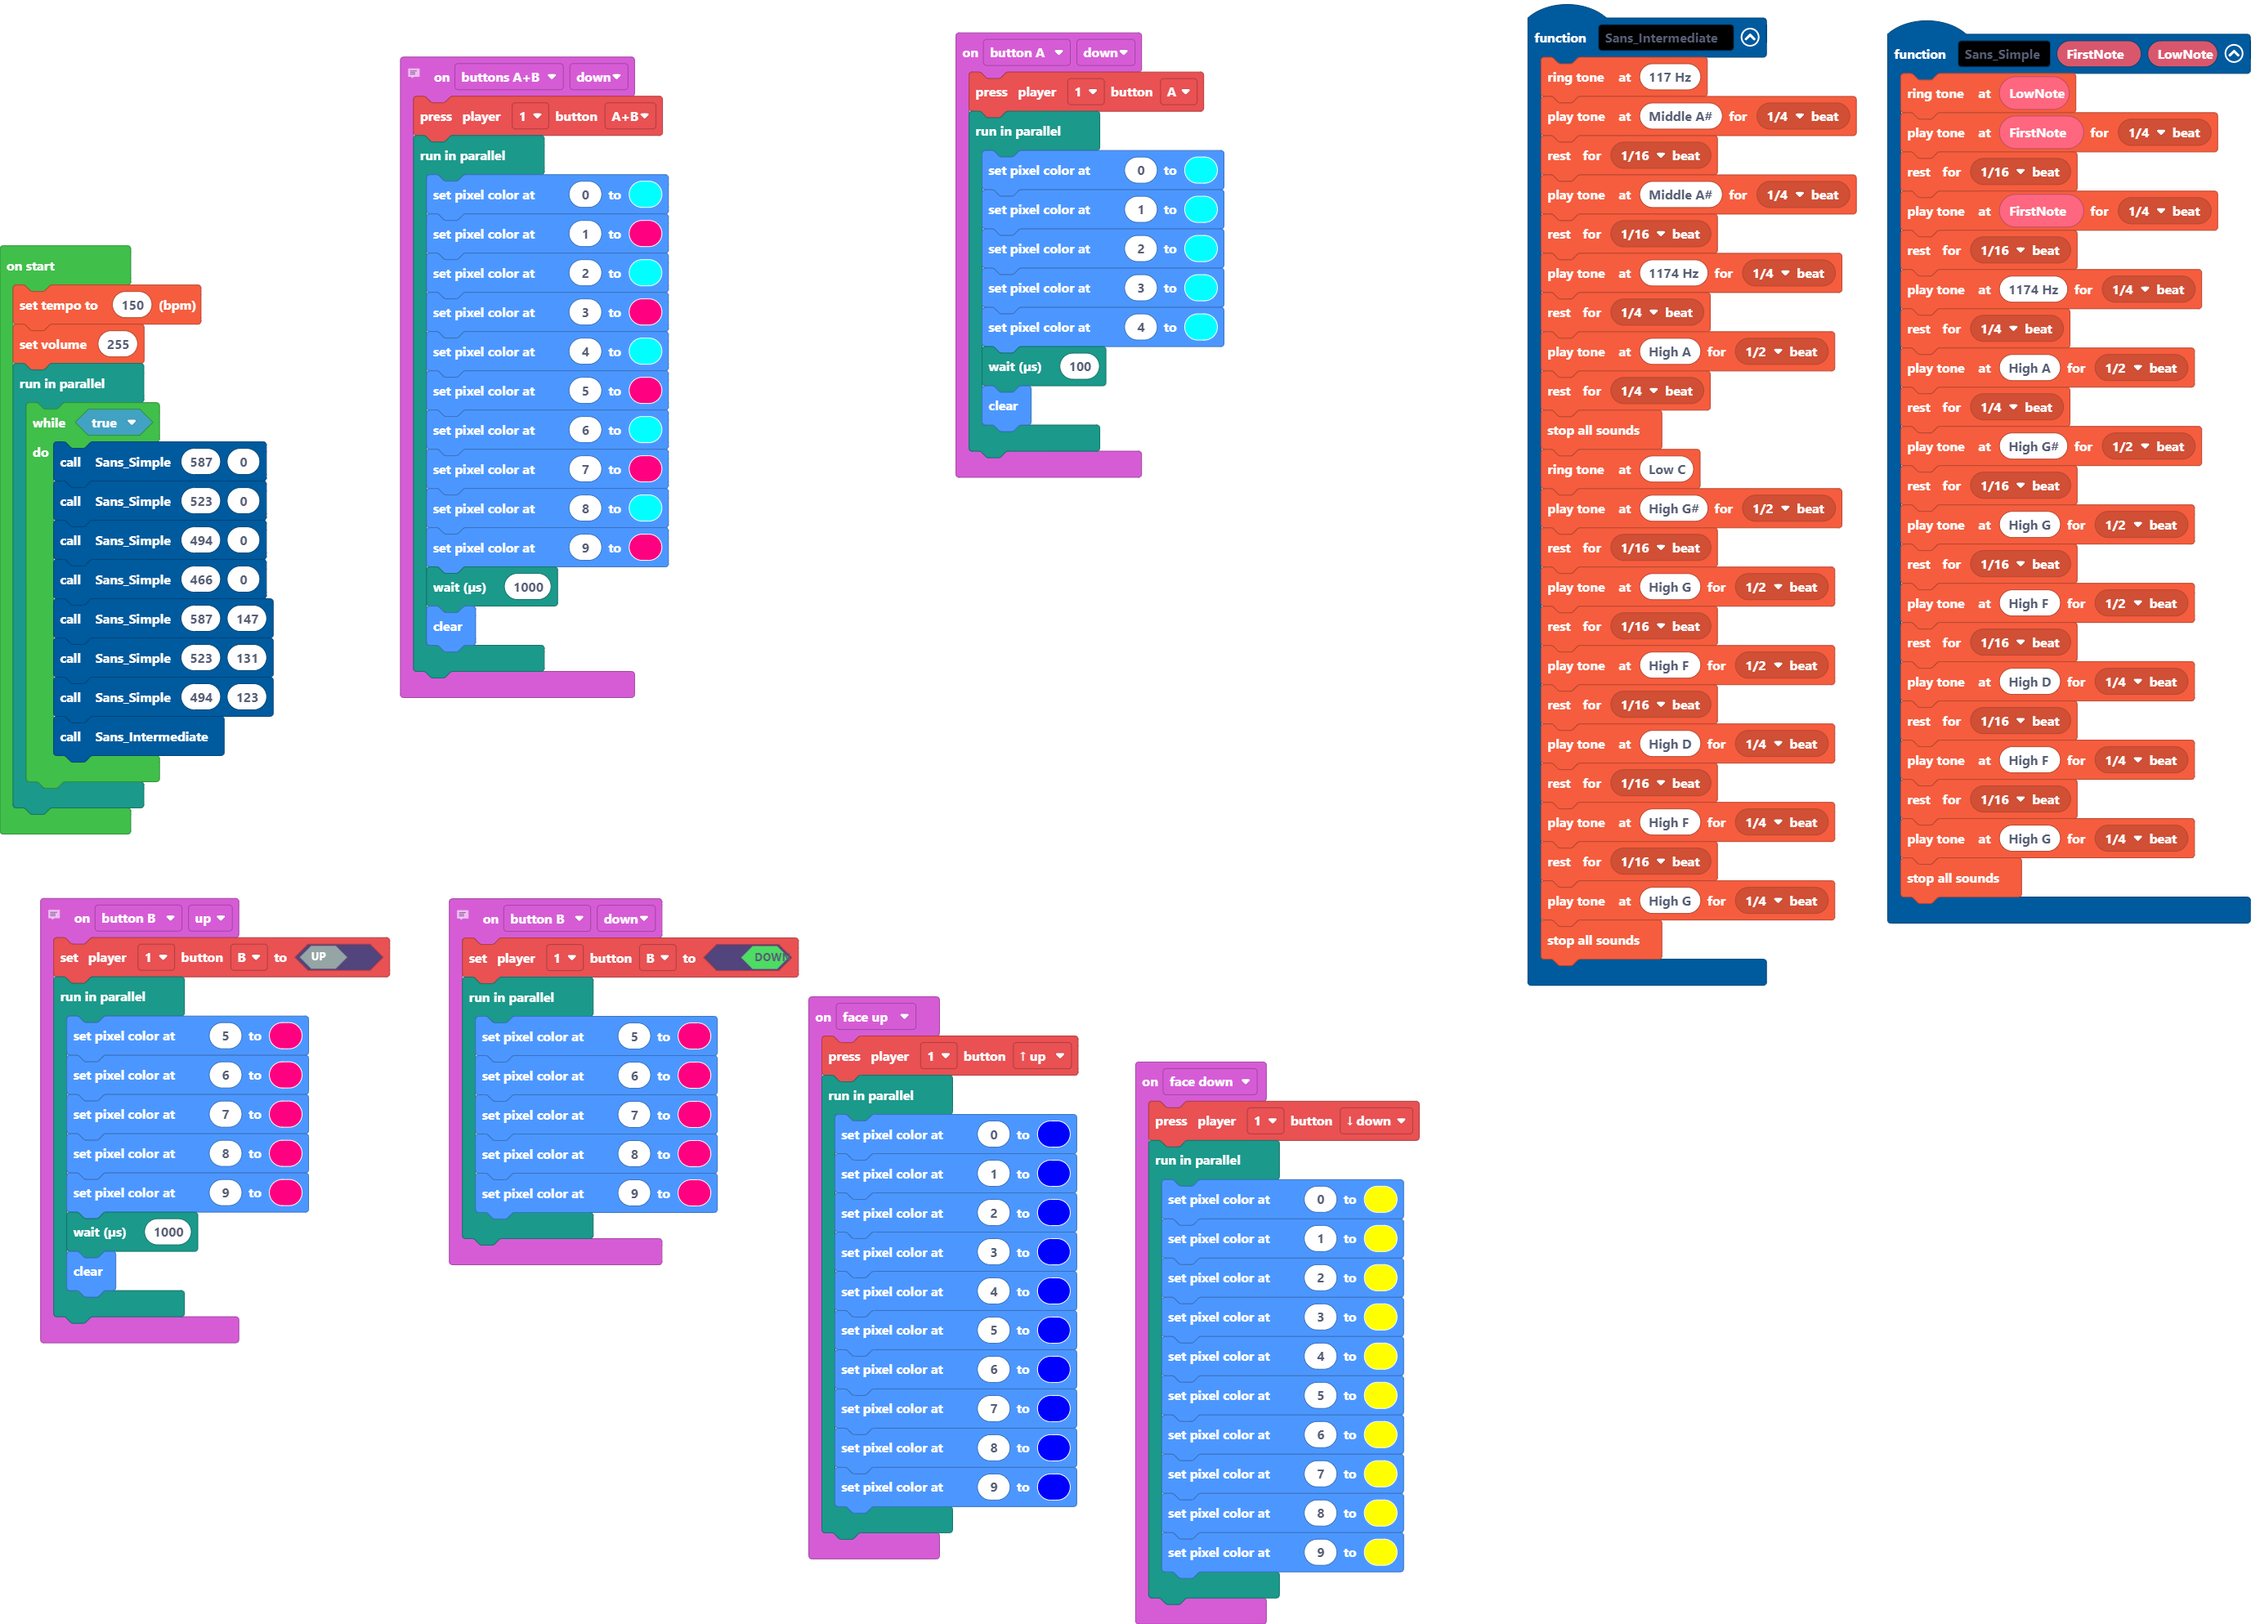
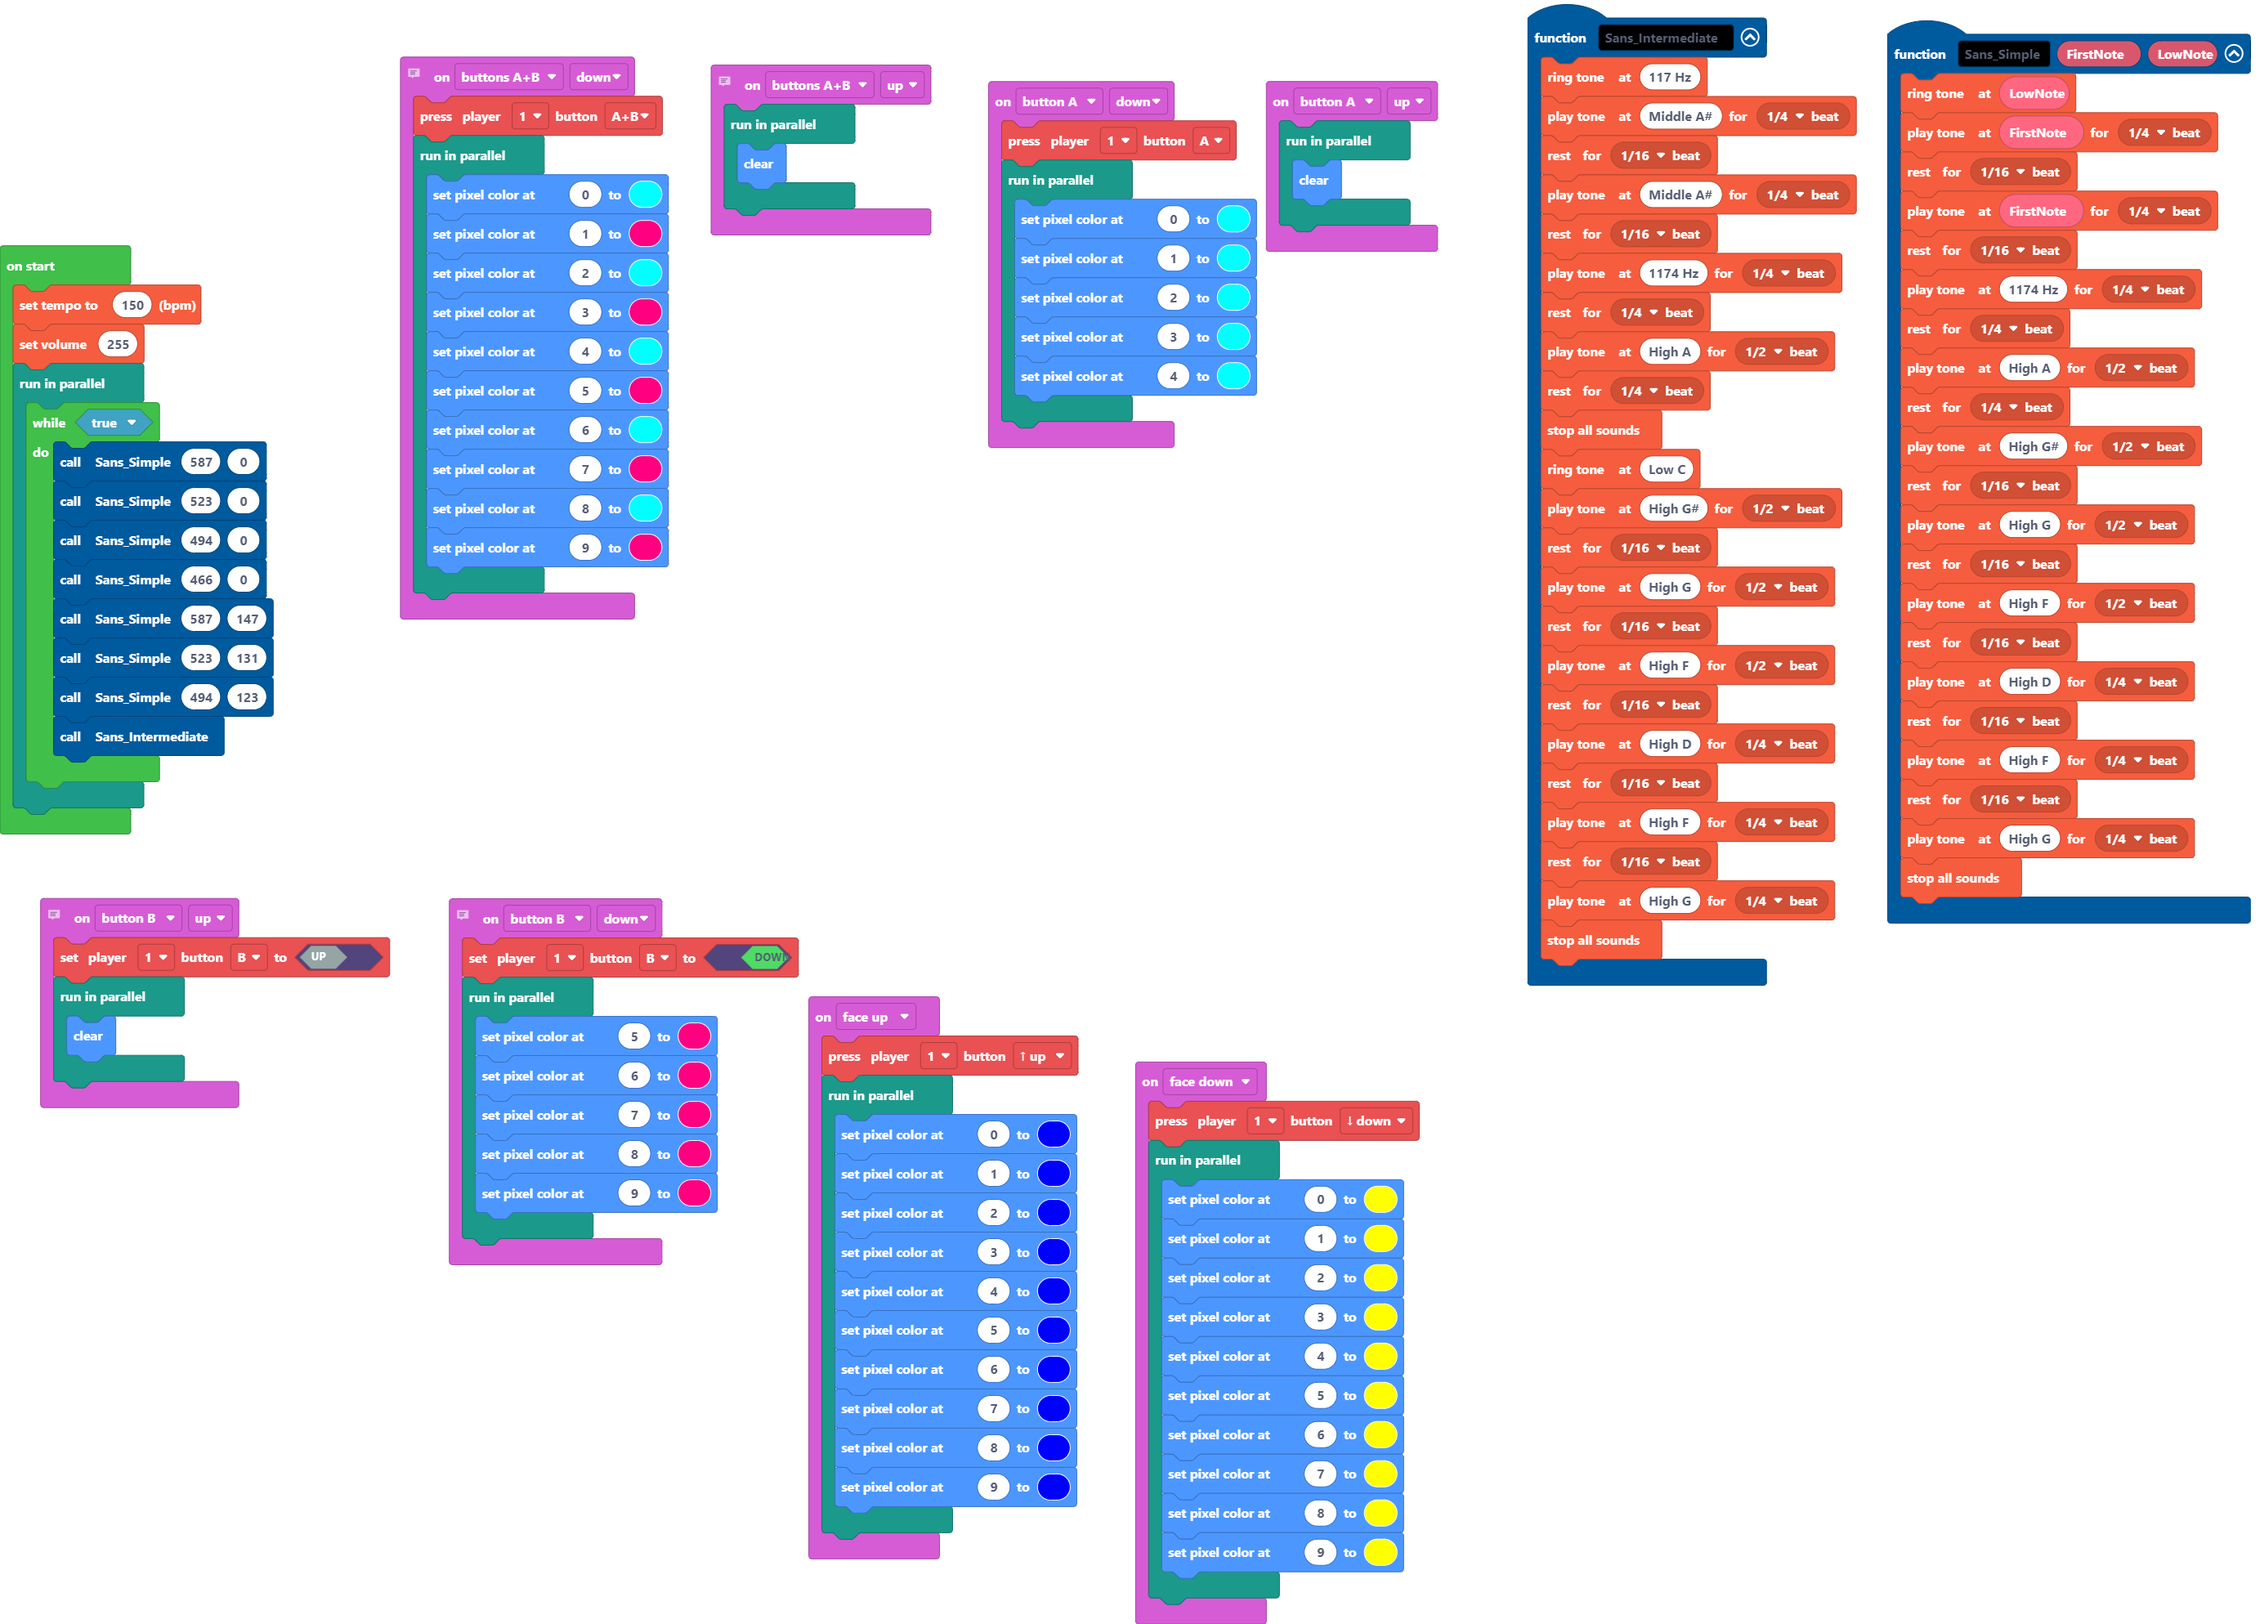
Update main.blocks, main.ts

Changed region(s): [[0.311, 0.0, 0.6532, 0.312], [0.0, 0.6241, 0.1555, 0.8425], [0.1555, 0.3432, 0.2799, 0.4368]]

diff --git a/main.ts b/main.ts
@@ -6,8 +6,6 @@ input.buttonA.onEvent(ButtonEvent.Down, function () {
         light.setPixelColor(2, 0x00ffff)
         light.setPixelColor(3, 0x00ffff)
         light.setPixelColor(4, 0x00ffff)
-        control.waitMicros(100)
-        light.clear()
     })
 })
 // gravity
@@ -24,8 +22,6 @@ input.buttonsAB.onEvent(ButtonEvent.Down, function () {
         light.setPixelColor(7, 0xff0080)
         light.setPixelColor(8, 0x00ffff)
         light.setPixelColor(9, 0xff0080)
-        control.waitMicros(1000)
-        light.clear()
     })
 })
 // Jetpack
@@ -37,6 +33,11 @@ input.buttonB.onEvent(ButtonEvent.Down, function () {
         light.setPixelColor(7, 0xff0080)
         light.setPixelColor(8, 0xff0080)
         light.setPixelColor(9, 0xff0080)
+    })
+})
+input.buttonA.onEvent(ButtonEvent.Up, function () {
+    control.runInParallel(function () {
+        light.clear()
     })
 })
 function Sans_Intermediate () {
@@ -68,12 +69,6 @@ function Sans_Intermediate () {
 input.buttonB.onEvent(ButtonEvent.Up, function () {
     makerController.player1.setButton(ArcadeButton.B, false)
     control.runInParallel(function () {
-        light.setPixelColor(5, 0xff0080)
-        light.setPixelColor(6, 0xff0080)
-        light.setPixelColor(7, 0xff0080)
-        light.setPixelColor(8, 0xff0080)
-        light.setPixelColor(9, 0xff0080)
-        control.waitMicros(1000)
         light.clear()
     })
 })
@@ -128,6 +123,12 @@ input.onGesture(Gesture.FaceUp, function () {
         light.setPixelColor(7, 0x0000ff)
         light.setPixelColor(8, 0x0000ff)
         light.setPixelColor(9, 0x0000ff)
+    })
+})
+// gravity
+input.buttonsAB.onEvent(ButtonEvent.Up, function () {
+    control.runInParallel(function () {
+        light.clear()
     })
 })
 music.setTempo(150)
